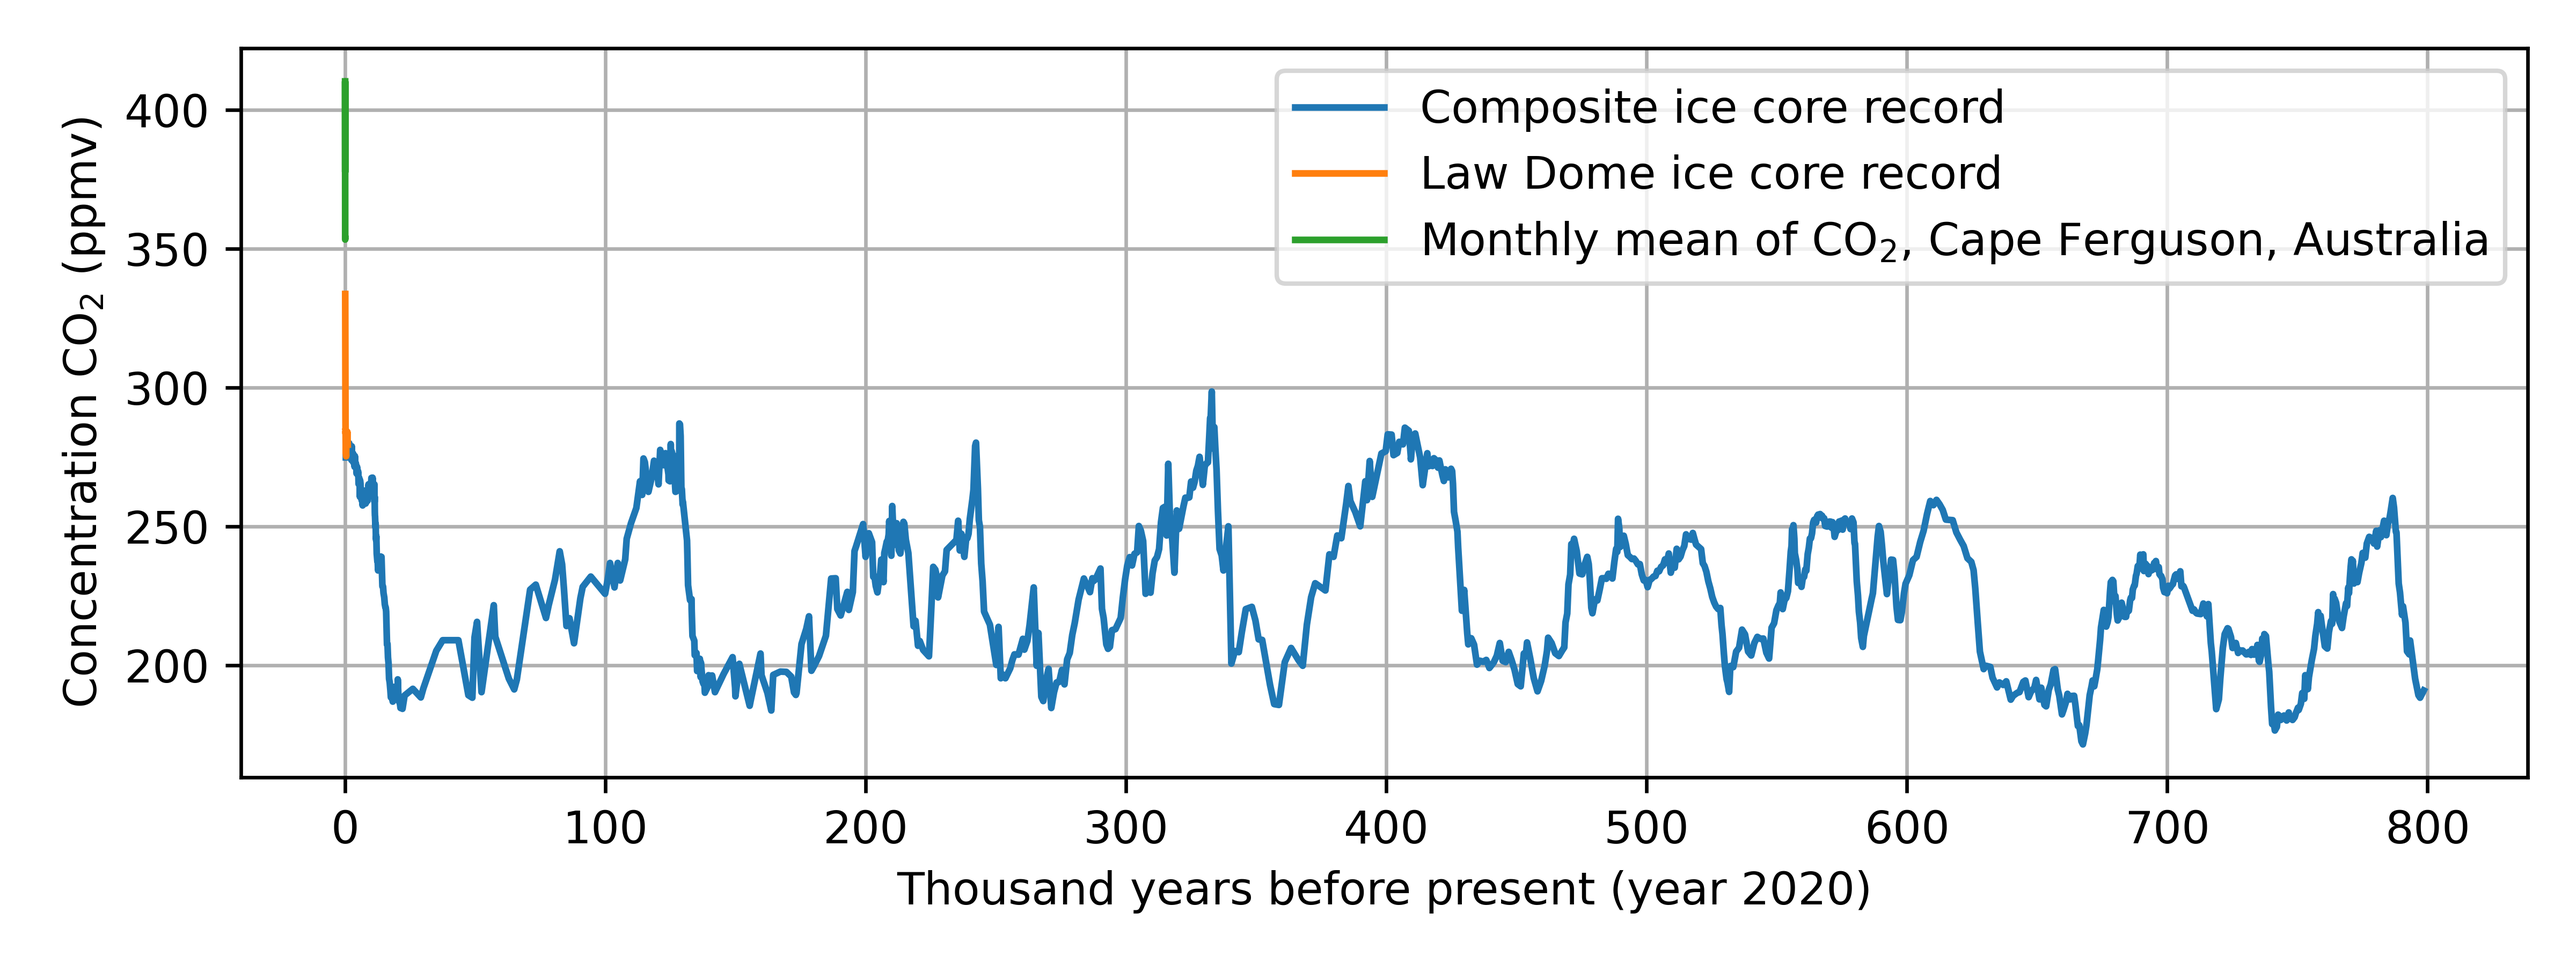
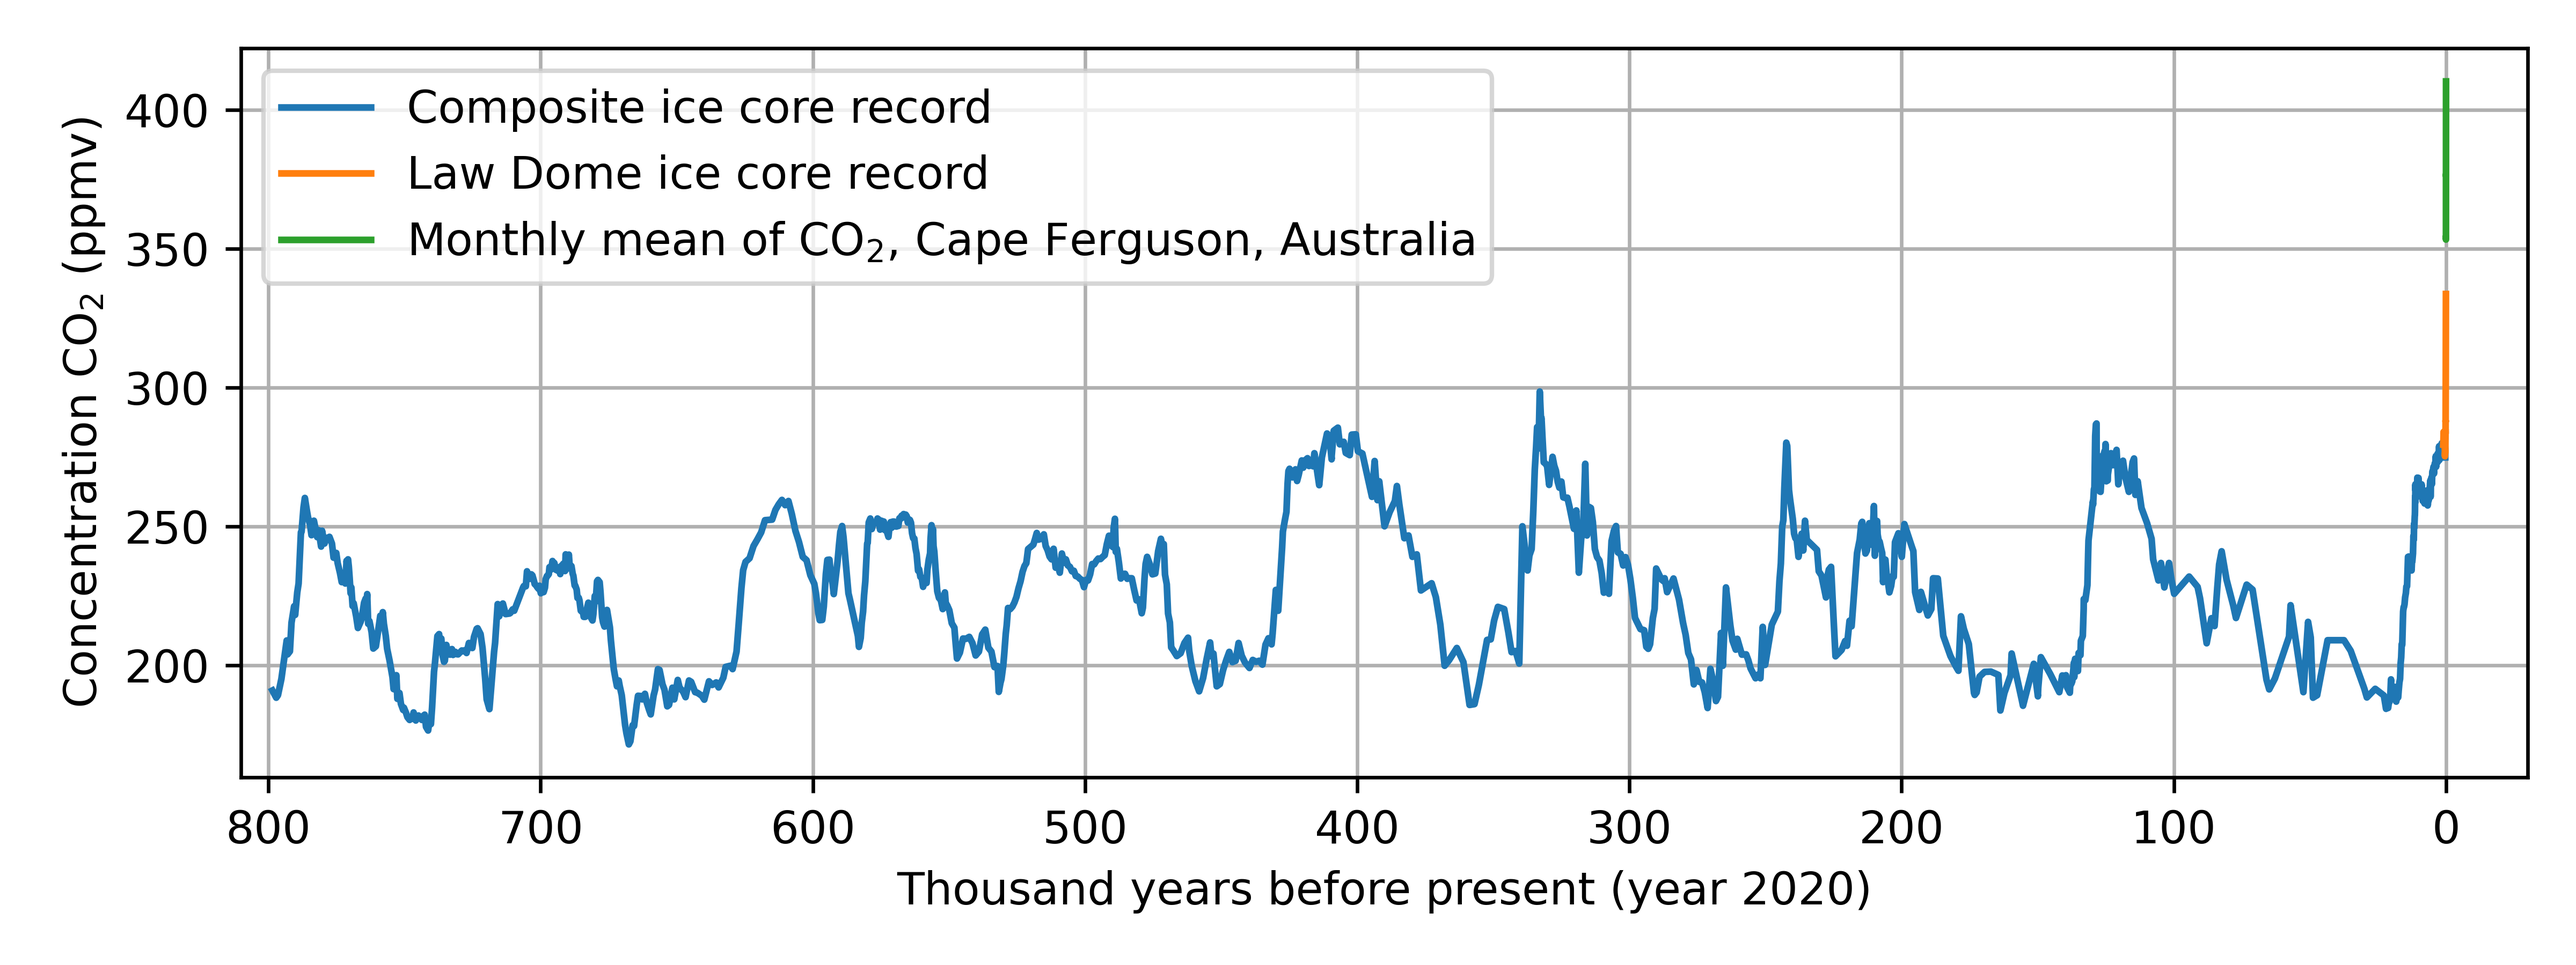
[hs] q1 fixes exam 2020-08

diff --git a/previous_exams/exam_2020-08/question1.py b/previous_exams/exam_2020-08/question1.py
@@ -3,19 +3,39 @@ import numpy as np
 
 
 def from_txt(filename, header=None, skiprows=0, comments=[]):
+
+    # Read file and add all contents after the header line to `text`
+    
     with open(filename, 'r') as file:
+
         text = ''
         header_found = False
+
         for line in file:
-            if header_found: text += line
-            if header is not None and header in line: header_found = True
+
+            if header_found:
+                text += line
+
+            if header is not None and header in line:
+                header_found = True
+    
+    # for each row in `text` convert elements to float and add to list `data`
 
     data = []
-    for l in text.splitlines()[skiprows:]:
-        if any([c in l for c in comments]): continue
-        row = list(map(float, l.split()))
-        if len(row) != 0: data.append(row)
 
+    for l in text.splitlines()[skiprows:]: # Skip `skiprows` number of rows in `text`
+
+        # Skip lines containing any of the strings in the list `comments`
+        if any([c in l for c in comments]):
+            continue
+        
+        row = [ float(x) for x in l.split() ] # Convert line to list of floats
+
+        if len(row) != 0:
+            data.append(row) 
+
+    # Return a NumPy array with the data converted to float
+    
     return np.array(data).T
 
 
@@ -60,6 +80,7 @@ plt.ylabel('Concentration CO$_2$ (ppmv)')
 plt.xlabel('Thousand years before present (year 2020)')
 plt.legend(loc='best')
 plt.grid(True)
+plt.xlim([810, -30])
 plt.tight_layout()
 
 plt.savefig('figure_co2_concentration.png', dpi=600)

diff --git a/previous_exams/exam_2020-08/exam_2020-08.md b/previous_exams/exam_2020-08/exam_2020-08.md
@@ -42,26 +42,24 @@ def grade(points):
 
 The concentration of carbon dioxide (C0$_2$) in the atmosphere is known to be an important factor determining the magnitude of the anthropogenic greenhouse effect. You are preparing a presentation on the topic and would like to make a plot showing the evolution of the atmospheric CO$_2$ concentration as a function of time using already published results. Your colleague has sent you the three text files: `edc-co2-2008.txt`, `lawdome.combined.dat`,  and `cfa_02D0_mm.co2`, containing the relevant time series data. Your task is to use Python, NumPy, and Matplotlib to automatically read the three files, filter out the relevant data, and plot the three datasets together in one figure. 
 
-Please note that the data has to be parsed from the original files, i.e. the files are not to be modified in any way.
+*Note:* The data has to be parsed from the original files, i.e. the files are not to be modified in any way.
 
 Part A (1p)
 -----------
 
 **Task:** Read the composite CO$_2$ record in the file `edc-co2-2008.txt` into two NumPy arrays `edc_age` and `edc_co2_ppmv` containing the age of the measurements and the CO$_2$ concentrations, respectively.
 
+**Hint:** The composite CO$_2$ record is the very last dataset in the file (listed under Section 3).
+
 Part B (1p)
 -----------
 
-**Task:** Read the data from the file `lawdome.combined.dat` into two NumPy arrays `law_age` and `law_co2_ppmv` containing the age of the air and the CO$_2$ concentrations, respectively.
-
-Make sure that the data is sorted on age.
+**Task:** Read the data from the file `lawdome.combined.dat` into two NumPy arrays `law_age` and `law_co2_ppmv` containing the age of the air and the CO$_2$ concentrations, respectively. Make sure that the data is sorted on age.
 
 Part C (1p)
 -------------
 
-**Task:** Read the data from the file `cfa_02D0_mm.co2` into two NumPy arrays `au_age` and `au_co2_ppmv` containing the time of the measurements and the CO$_2$ concentrations, respectively.
-
-Make sure to remove invalid data points (where the CO$_2$ concentration is set to -999.0).
+**Task:** Read the data from the file `cfa_02D0_mm.co2` into two NumPy arrays `au_age` and `au_co2_ppmv` containing the time of the measurements and the CO$_2$ concentrations, respectively. Make sure to remove invalid data points (where the CO$_2$ concentration is set to -999.0).
 
 Part D (2p)
 -------------
